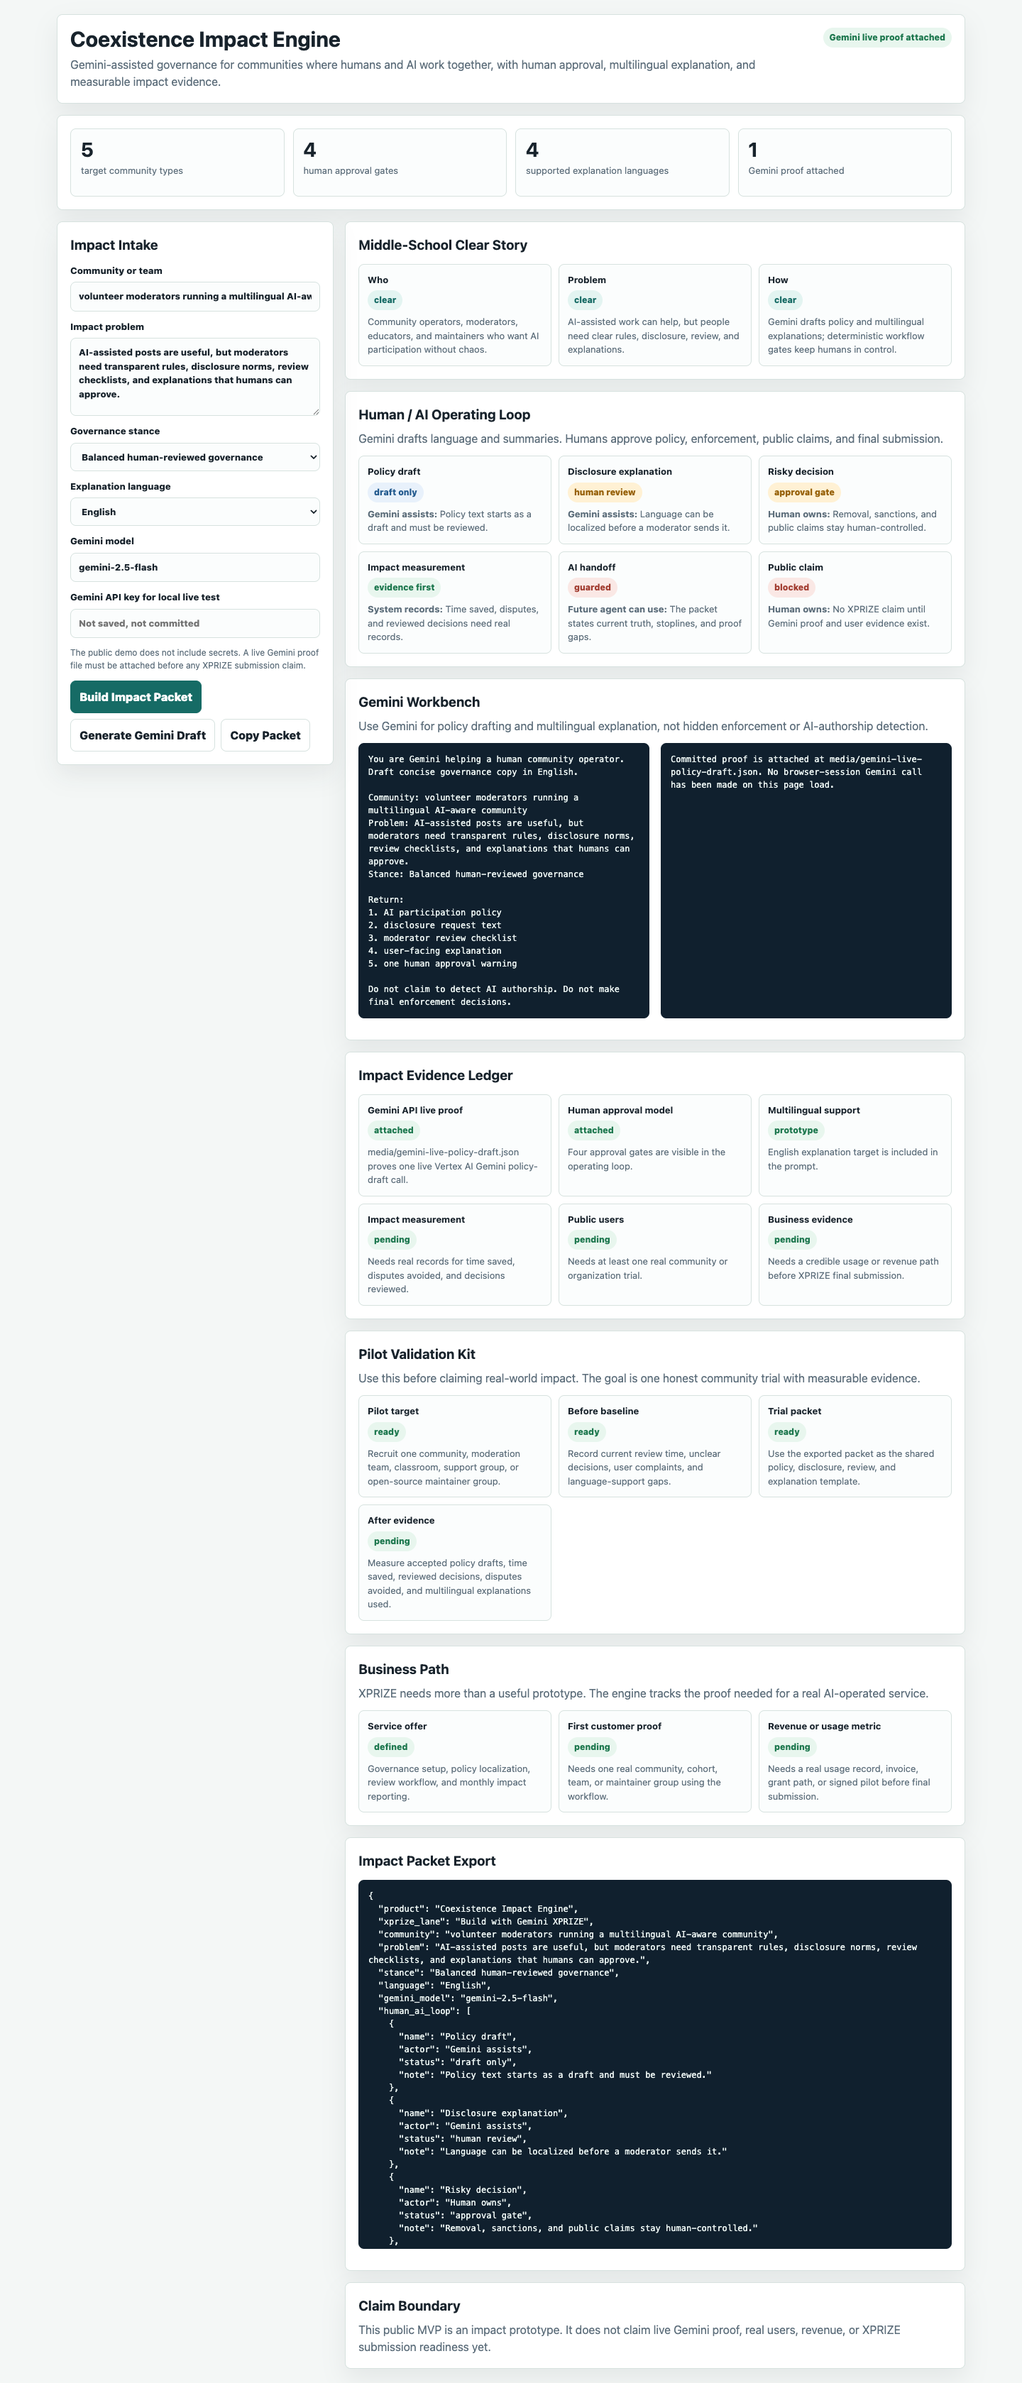
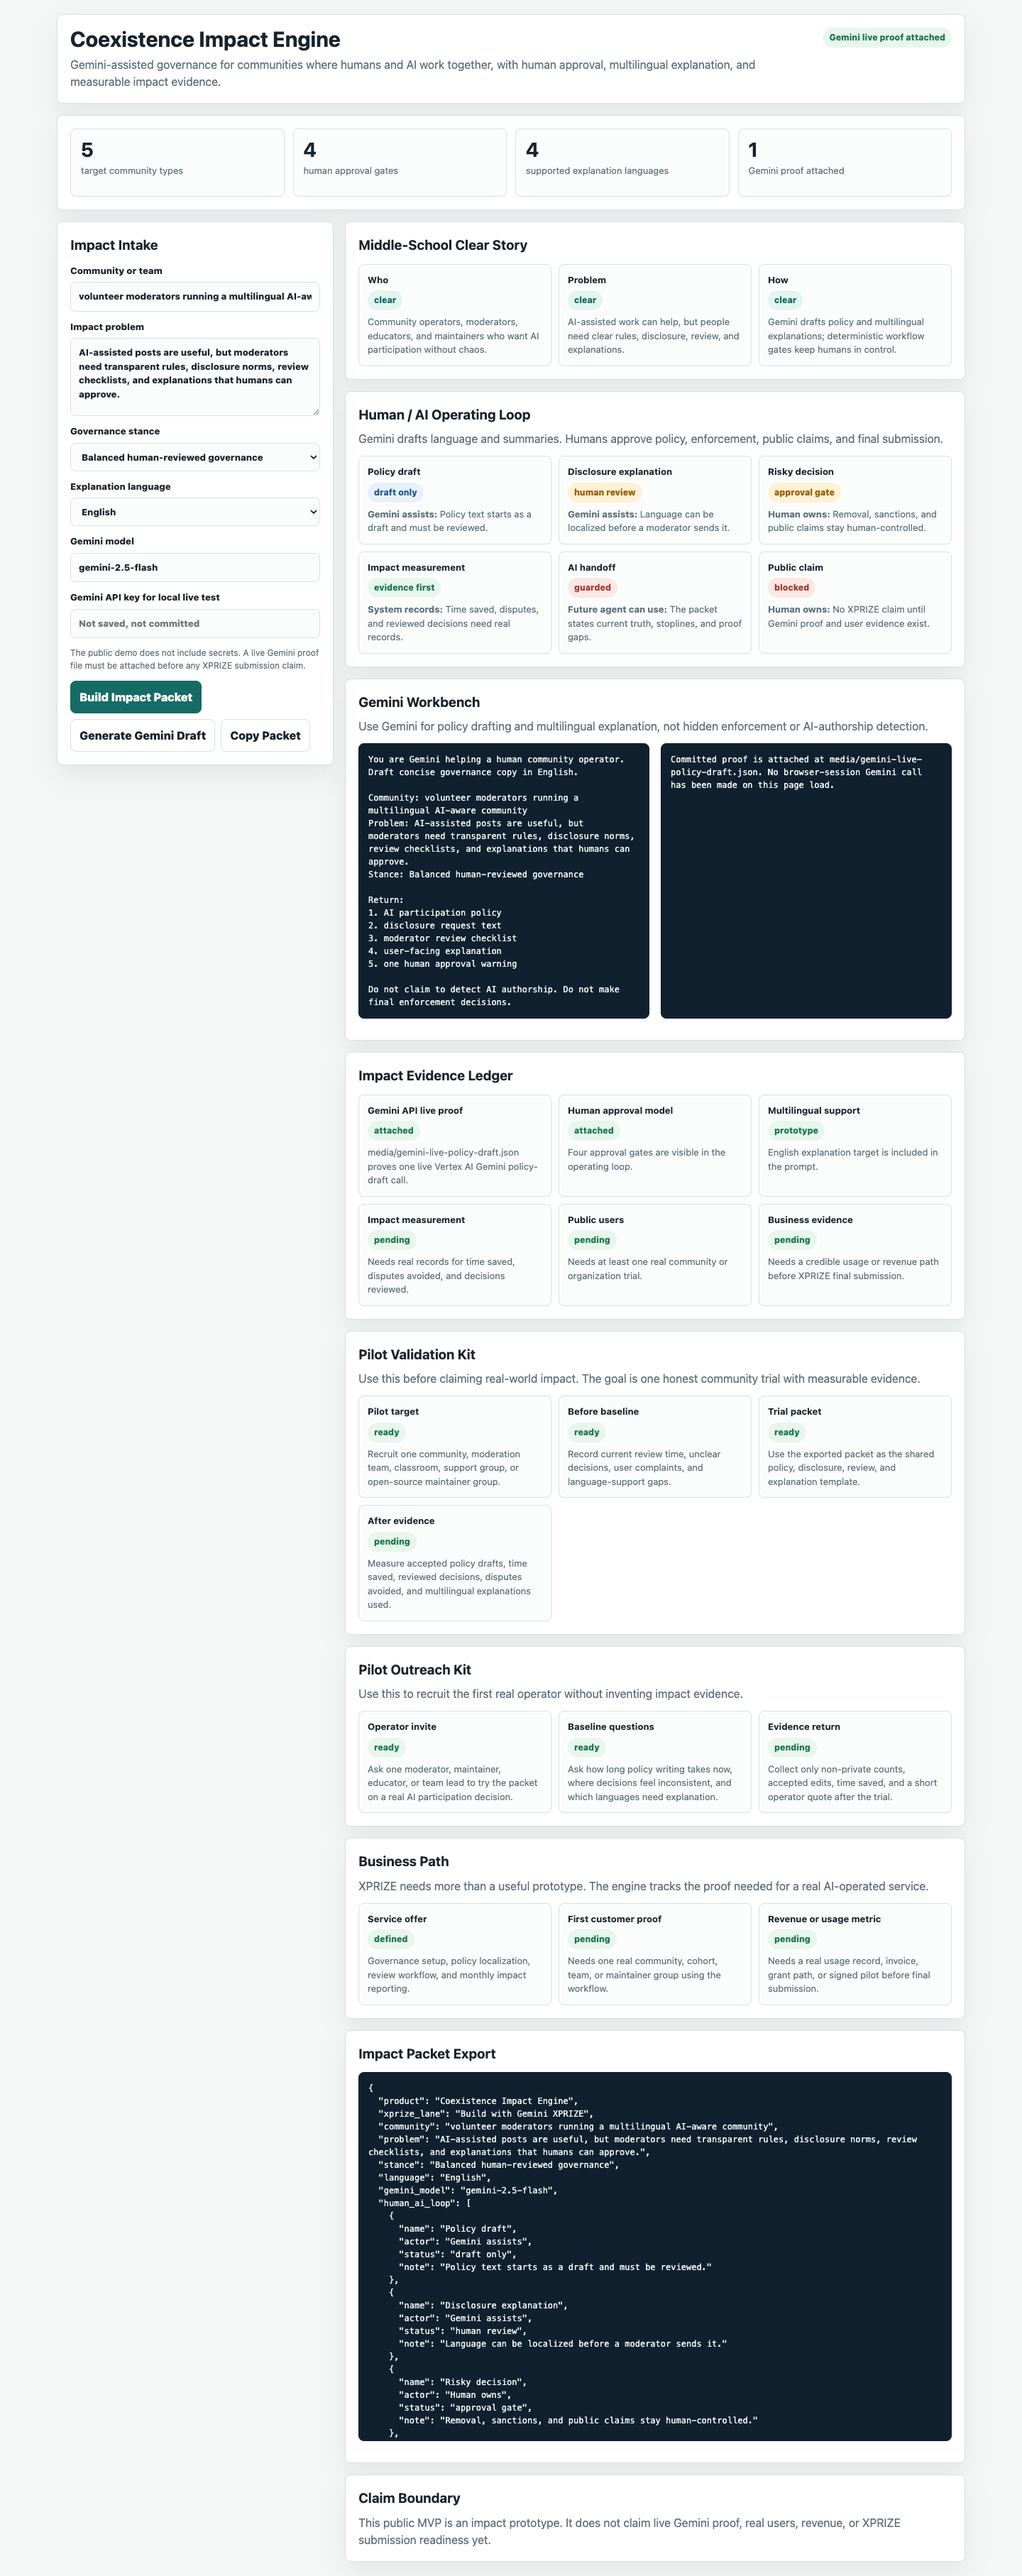
Add pilot outreach kit

Changed region(s): [[0.0625, 0.0, 0.9375, 0.9911], [0.625, 0.0, 0.6875, 0.031], [0.4375, 0.0, 0.4688, 0.031]]

diff --git a/index.html b/index.html
@@ -319,6 +319,12 @@
         </section>
 
         <section>
+          <h2>Pilot Outreach Kit</h2>
+          <p>Use this to recruit the first real operator without inventing impact evidence.</p>
+          <div class="card-grid" id="outreachGrid"></div>
+        </section>
+
+        <section>
           <h2>Business Path</h2>
           <p>XPRIZE needs more than a useful prototype. The engine tracks the proof needed for a real AI-operated service.</p>
           <div class="card-grid" id="businessGrid"></div>
@@ -368,6 +374,12 @@
       { name: 'Before baseline', status: 'ready', note: 'Record current review time, unclear decisions, user complaints, and language-support gaps.' },
       { name: 'Trial packet', status: 'ready', note: 'Use the exported packet as the shared policy, disclosure, review, and explanation template.' },
       { name: 'After evidence', status: 'pending', note: 'Measure accepted policy drafts, time saved, reviewed decisions, disputes avoided, and multilingual explanations used.' }
+    ];
+
+    const outreach = [
+      { name: 'Operator invite', status: 'ready', note: 'Ask one moderator, maintainer, educator, or team lead to try the packet on a real AI participation decision.' },
+      { name: 'Baseline questions', status: 'ready', note: 'Ask how long policy writing takes now, where decisions feel inconsistent, and which languages need explanation.' },
+      { name: 'Evidence return', status: 'pending', note: 'Collect only non-private counts, accepted edits, time saved, and a short operator quote after the trial.' }
     ];
 
     function sentence(value) {
@@ -424,6 +436,7 @@ Do not claim to detect AI authorship. Do not make final enforcement decisions.`;
         gemini_model: model,
         human_ai_loop: loop,
         pilot_validation_kit: pilot,
+        pilot_outreach_kit: outreach,
         business_path: business,
         evidence_ledger: evidence,
         gemini_prompt: null,
@@ -451,6 +464,13 @@ Do not claim to detect AI authorship. Do not make final enforcement decisions.`;
         </div>
       `).join('');
       $('pilotGrid').innerHTML = pilot.map((item) => `
+        <div class="card">
+          <b>${item.name}</b>
+          <span class="badge ${statusClass(item.status)}">${item.status}</span>
+          <p>${item.note}</p>
+        </div>
+      `).join('');
+      $('outreachGrid').innerHTML = outreach.map((item) => `
         <div class="card">
           <b>${item.name}</b>
           <span class="badge ${statusClass(item.status)}">${item.status}</span>

diff --git a/scripts/verify_readme_review_hub.py b/scripts/verify_readme_review_hub.py
@@ -30,6 +30,7 @@ REQUIRED_MARKERS = [
     "coexistence_impact_no_secrets_ok",
     "gemini_live_proof_file_exists=True",
     "Pilot validation playbook",
+    "Pilot outreach packet",
     "does not claim real users",
 ]
 

diff --git a/docs/PILOT_OUTREACH_PACKET.md b/docs/PILOT_OUTREACH_PACKET.md
@@ -1,0 +1,77 @@
+# Pilot Outreach Packet
+
+This packet is for getting the first honest community or team trial. It should be used before any real-world impact claim.
+
+## Who To Ask First
+
+Good first operators:
+
+- a subreddit or forum moderator
+- an open-source maintainer
+- a classroom or study community owner
+- a multilingual support community lead
+- a small team already using AI-assisted work
+
+Avoid broad public claims. The goal is one real operator and one real workflow.
+
+## Short Invite
+
+```text
+Hi, I am testing Coexistence Impact Engine, a small governance tool for communities where humans and AI participate together.
+
+It does not try to detect or punish AI authorship. It helps an operator write AI participation rules, disclosure text, review criteria, multilingual explanations, and a simple evidence log.
+
+Would you be willing to try it on one real policy or moderation workflow and tell me:
+
+1. whether the packet was useful,
+2. what you edited or rejected,
+3. roughly how much time it saved or added,
+4. whether the explanation would work for your users?
+
+No private user data is needed.
+```
+
+## Baseline Questions
+
+Ask before the operator uses the tool:
+
+```text
+1. What AI participation question is currently hard for your community or team?
+2. Do you already have a written AI-use policy?
+3. How long would it normally take to draft or revise that policy?
+4. Where do decisions feel inconsistent today?
+5. Which languages do you need user-facing explanations in?
+6. What evidence would convince you that this workflow helped?
+```
+
+## After-Trial Evidence
+
+Collect only non-private evidence:
+
+```text
+1. Was any policy text accepted?
+2. What was edited or rejected?
+3. How many decisions or explanations used the checklist?
+4. Estimated minutes saved or added.
+5. Any disputes avoided, clarified, or resolved.
+6. Languages used.
+7. One short operator quote, if they agree.
+```
+
+## Public Proof Shape
+
+Safe public proof can be:
+
+- a redacted operator quote
+- accepted policy excerpt with private details removed
+- count of decisions reviewed
+- estimated minutes saved with method stated
+- list of languages supported
+- short note on what did not work
+
+## Stoplines
+
+- Do not include usernames, private messages, private moderation cases, or confidential community data.
+- Do not claim broad impact from one trial.
+- Do not claim AI-detection capability.
+- Do not claim XPRIZE readiness until real usage evidence and business evidence exist.

diff --git a/README.md b/README.md
@@ -33,6 +33,7 @@ https://daideguchi.github.io/coexistence-impact-engine/
 - drafts a Gemini prompt for policy, disclosure, review checklist, and user explanation
 - supports browser-local Gemini BYOK testing without saving secrets
 - creates a pilot validation kit for the first real community trial
+- creates a pilot outreach kit for recruiting one real operator without private data
 - exports an impact packet with evidence ledger and claim boundaries
 - keeps live Gemini proof, user proof, and business evidence blocked until real evidence exists
 
@@ -95,7 +96,7 @@ Expected current state:
 
 ```text
 impact_verify_ok
-cards=22
+cards=25
 coexistence_impact_no_secrets_ok
 coexistence_impact_readme_review_hub_ok
 coexistence_impact_gemini_boundary_ok
@@ -113,5 +114,6 @@ This is a public impact prototype, not a final XPRIZE submission. It claims one 
 - [Architecture](ARCHITECTURE.md)
 - [XPRIZE Gemini proof plan](docs/GEMINI_PROOF_PLAN.md)
 - [Pilot validation playbook](docs/PILOT_VALIDATION_PLAYBOOK.md)
+- [Pilot outreach packet](docs/PILOT_OUTREACH_PACKET.md)
 - [Devpost draft](submission/devpost-draft.md)
 - [Build journey](submission/build-journey.md)

diff --git a/submission/devpost-draft.md b/submission/devpost-draft.md
@@ -19,6 +19,7 @@ AI participation is becoming normal. The hard part is no longer simply asking wh
 - drafts a Gemini prompt for policy and multilingual explanation
 - keeps risky actions behind human approval gates
 - creates a pilot validation kit for real-world impact testing
+- creates a pilot outreach kit for recruiting the first real operator
 - exports an impact packet with evidence and claim boundaries
 - supports live Gemini BYOK testing without committed secrets
 

diff --git a/SUBMISSION_PACKAGE.md b/SUBMISSION_PACKAGE.md
@@ -22,6 +22,7 @@ Coexistence Impact Engine creates a reviewable impact packet:
 - human/AI operating loop
 - approval gates
 - pilot validation kit
+- pilot outreach kit
 - impact evidence ledger
 - next live proof step
 - claim boundary
@@ -59,6 +60,7 @@ Pilot validation playbook:
 
 ```text
 docs/PILOT_VALIDATION_PLAYBOOK.md
+docs/PILOT_OUTREACH_PACKET.md
 ```
 
 Demo video draft:

diff --git a/submission/build-journey.md b/submission/build-journey.md
@@ -12,6 +12,7 @@ Coexistence Console proved the governance idea inside Reddit moderation. The XPR
 - Human/AI operating loop.
 - Impact evidence ledger.
 - Pilot validation kit.
+- Pilot outreach kit for the first real operator.
 - Claim-boundary verifiers.
 - README review-hub verifier for public submission completeness.
 - Natural English demo video draft.

diff --git a/docs/PILOT_VALIDATION_PLAYBOOK.md b/docs/PILOT_VALIDATION_PLAYBOOK.md
@@ -33,6 +33,8 @@ Record the current state before using the tool:
 5. Use the packet for a small batch of real decisions or explanations.
 6. Record what changed after the pilot.
 
+Use `docs/PILOT_OUTREACH_PACKET.md` to recruit the first operator and collect only non-private evidence.
+
 ## After Evidence
 
 Useful evidence includes:
